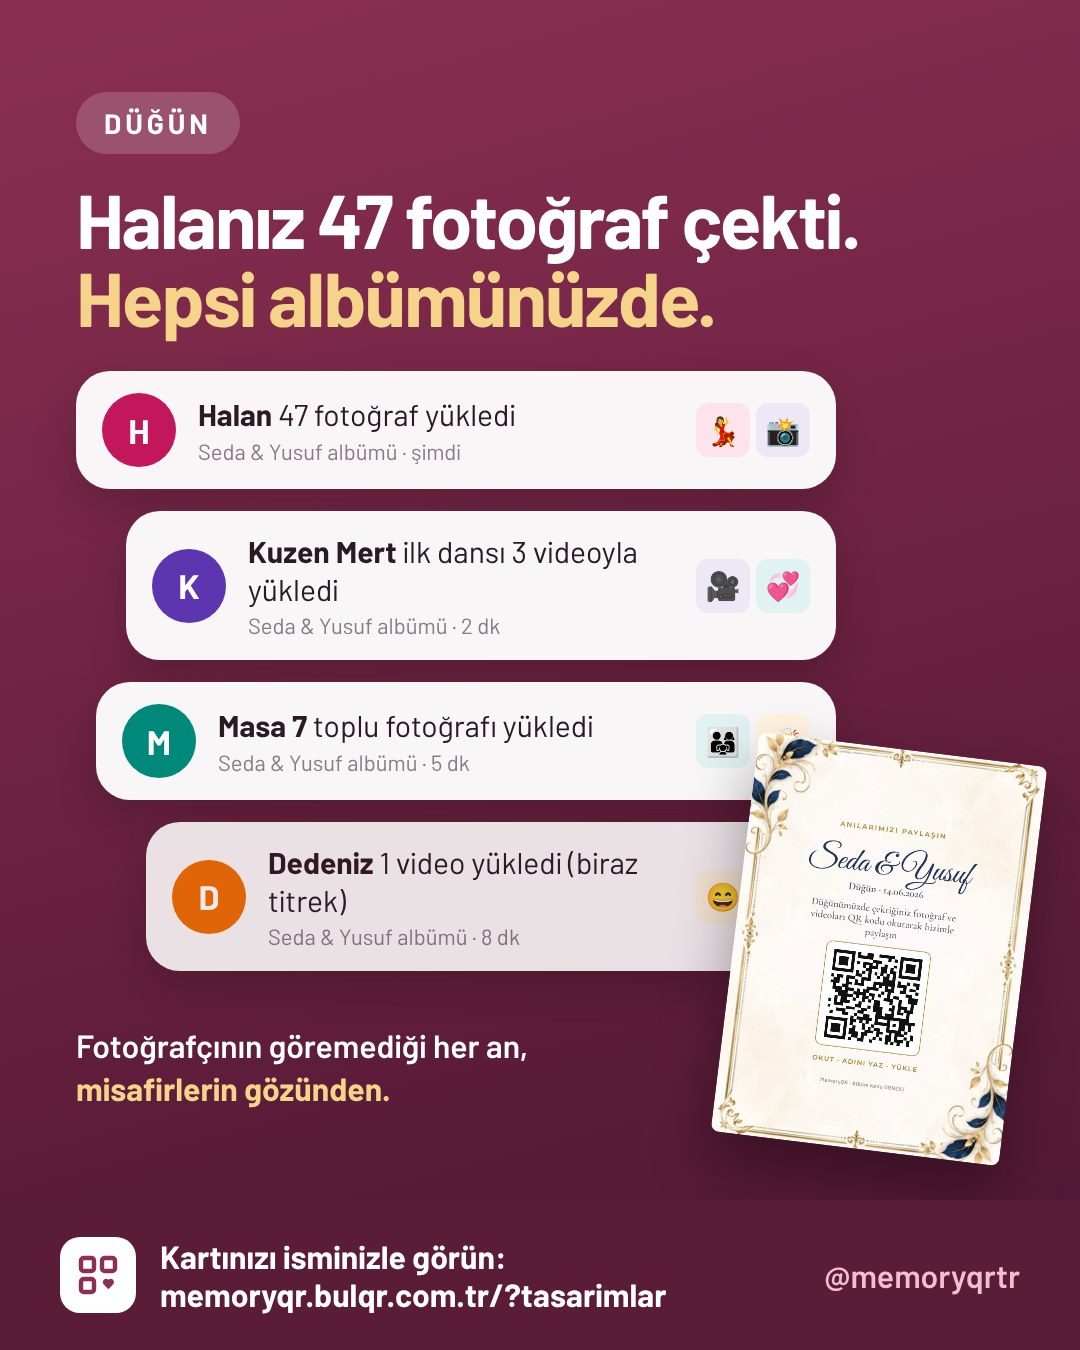
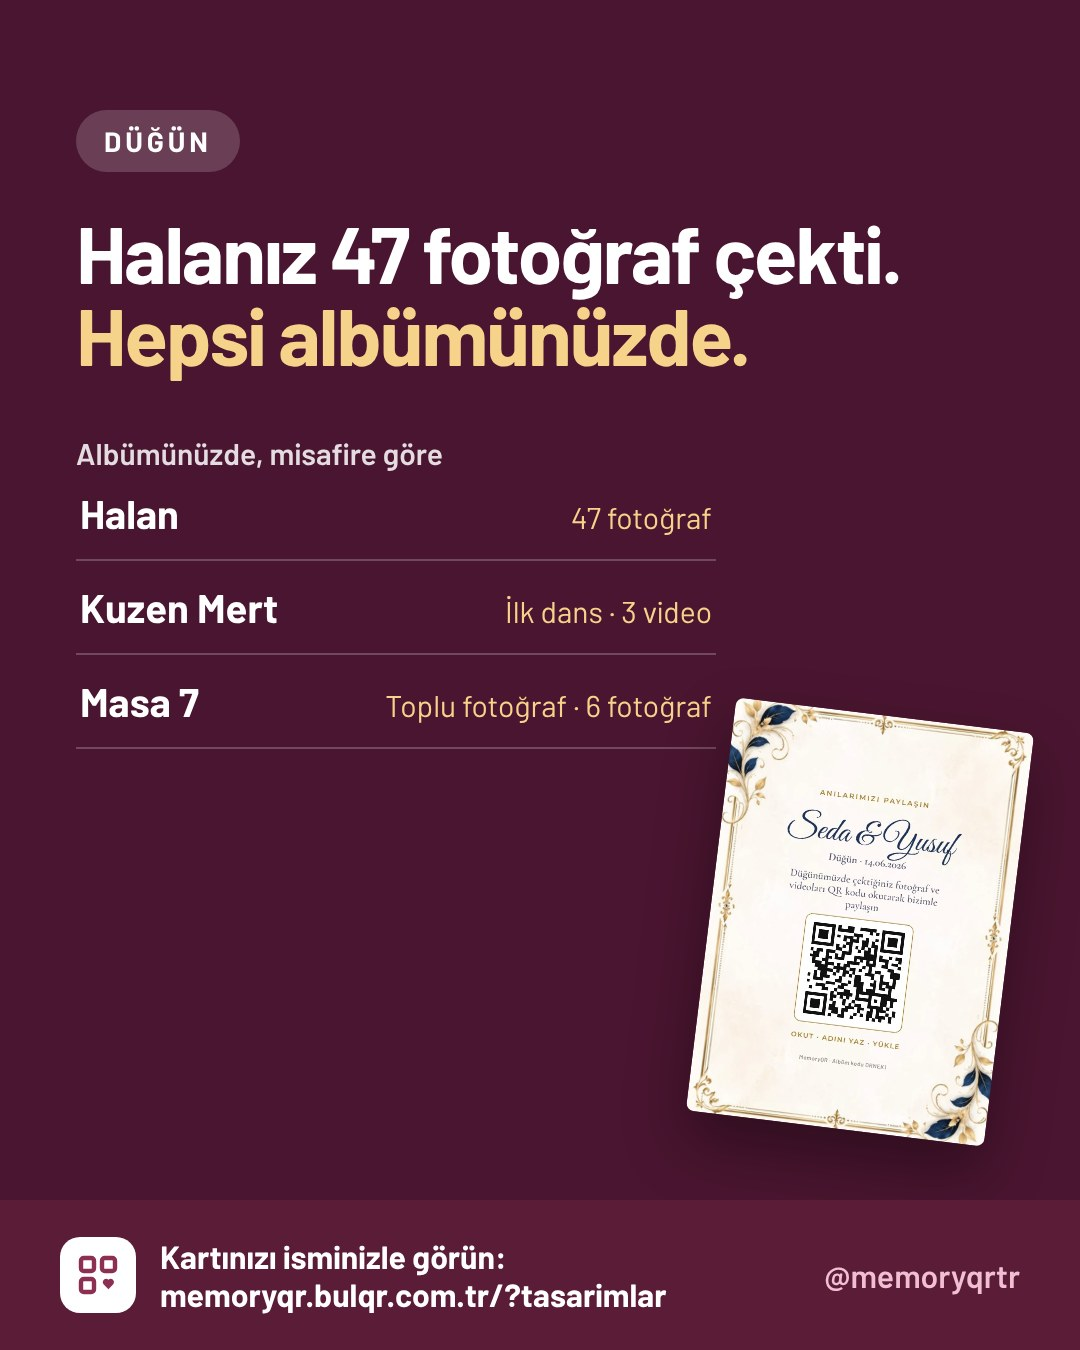
Etkinlik serisi sadeleşti: bildirim yerine albümde misafire göre liste, tek renk zemin
Claude-Session: https://claude.ai/code/session_013LggcHU5H3775AuoLzGk1M

diff --git a/pazarlama/ig/ekstra.js b/pazarlama/ig/ekstra.js
@@ -208,41 +208,41 @@ const IG_EKSTRA = [
   ...[
     {ad: "Düğün", kind: "dugun", isim: "Seda & Yusuf", tasarim: "lacivert_barok", renk: "#4a1530", renk2: "#8c2f52", tag: "#düğünfotoğrafları",
       b: ["Halanız 47 fotoğraf çekti.", "Hepsi albümünüzde."], albumAd: "Seda & Yusuf albümü",
-      bildirim: [["Halan", "47 fotoğraf yükledi", ["💃", "📸"], "şimdi"], ["Kuzen Mert", "ilk dansı 3 videoyla yükledi", ["🎥", "💞"], "2 dk"], ["Masa 7", "toplu fotoğrafı yükledi", ["👨👩👧", "🥂"], "5 dk"], ["Dedeniz", "1 video yükledi (biraz titrek)", ["😄", "🎥"], "8 dk"]],
+      bildirim: [["Halan", "47 fotoğraf", ["💃", "📸"]], ["Kuzen Mert", "İlk dans · 3 video", ["🎥", "💞"]], ["Masa 7", "Toplu fotoğraf · 6 fotoğraf", ["👨👩👧", "🥂"]], ["Dedeniz", "1 video (biraz titrek)", ["😄", "🎥"]]],
       alt: "Fotoğrafçının göremediği her an, **misafirlerin gözünden.**",
       cap: "Düğünün en güzel kareleri genelde misafirlerin telefonunda kalır 📸\n\nMemoryQR'da masadaki QR'ı okutan herkes çektiğini doğrudan albümünüze yükler. Halanızın 47 fotoğrafı da, dedenizin titrek videosu da 😄\n\n💌 Paketler 499 TL'den. 👉 Tasarımınızı seçin: link profilde"},
     {ad: "Kına gecesi", kind: "kina", isim: "Seda'nın Kına Gecesi", tasarim: "bordo_gul", renk: "#5a0e18", renk2: "#a3263a", tag: "#kınaorganizasyonu",
       b: ["Halay videosu kimdeydi?", "Artık albümünüzde."], albumAd: "Kına gecesi albümü",
-      bildirim: [["Teyzen", "halay videosunu yükledi", ["💃", "🎶"], "şimdi"], ["Elif", "kına yakılırken 12 fotoğraf yükledi", ["🔴", "📸"], "3 dk"], ["Annen", "'Yüksek yüksek tepelere' videosunu yükledi", ["🎤", "🥹"], "6 dk"], ["Zeynep", "bindallı fotoğraflarını yükledi", ["👑", "✨"], "9 dk"]],
+      bildirim: [["Teyzen", "Halay · 4 video", ["💃", "🎶"]], ["Elif", "Kına yakılırken · 12 fotoğraf", ["🔴", "📸"]], ["Annen", "'Yüksek yüksek tepelere' · 1 video", ["🎤", "🥹"]], ["Zeynep", "Bindallı · 9 fotoğraf", ["👑", "✨"]]],
       alt: "Türküler, halaylar, gözyaşları: **kına bir kere yaşanır.**",
       cap: "Kına gecesinin en güzel videoları hep birilerinin telefonunda kalır 💃\n\nMemoryQR ile masadaki QR'ı okutan herkes çektiğini doğrudan albümünüze yükler. Kına + düğün için 2 albümlü Aile paketimiz de var.\n\n👉 Tasarımınızı seçin: link profilde"},
     {ad: "Nişan", kind: "nisan", isim: "Seda & Yusuf", tasarim: "pudra_yuzuk", renk: "#5e3a48", renk2: "#a06a7c", tag: "#nişanhazırlığı",
       b: ["Yüzük anı,", "6 farklı açıdan."], albumAd: "Nişan albümü",
-      bildirim: [["Kayınvalide", "yüzük anını yükledi", ["💍", "📸"], "şimdi"], ["Abin", "aynı anı başka açıdan yükledi", ["💍", "🎥"], "1 dk"], ["Nişan masası", "8 fotoğraf yükledi", ["🌸", "🥂"], "4 dk"], ["Kuzen Ayşe", "aile fotoğrafını yükledi", ["👨👩👧👦", "✨"], "7 dk"]],
+      bildirim: [["Kayınvalide", "Yüzük anı · 1 video", ["💍", "📸"]], ["Abin", "Yüzük anı, başka açıdan", ["💍", "🎥"]], ["Nişan masası", "8 fotoğraf", ["🌸", "🥂"]], ["Kuzen Ayşe", "Aile fotoğrafı", ["👨👩👧👦", "✨"]]],
       alt: "İki ailenin ilk ortak fotoğrafları **tek albümde.**",
       cap: "Yüzükler takılırken herkes telefonunu kaldırır 💍 O kareleri tek tek istemenize gerek yok.\n\nMemoryQR'da QR'ı okutan her misafir çektiğini doğrudan albümünüze yükler.\n\n👉 Tasarımınızı seçin: link profilde"},
     {ad: "Doğum günü", kind: "dogum_gunu", isim: "Seda'nın Doğum Günü", tasarim: "unicorn", renk: "#3d2470", renk2: "#7a52c2", tag: "#doğumgünüpartisi",
       b: ["Mumlar üflenirken", "14 telefon çekti."], albumAd: "Doğum günü albümü",
-      bildirim: [["Defne'nin annesi", "mum anını yükledi", ["🎂", "🎥"], "şimdi"], ["Can'ın babası", "oyun alanından 9 fotoğraf yükledi", ["🎈", "📸"], "3 dk"], ["Babaanne", "hediye açılışını yükledi", ["🎁", "🥹"], "5 dk"], ["Animatör", "grup fotoğrafını yükledi", ["🦄", "✨"], "8 dk"]],
+      bildirim: [["Defne'nin annesi", "Mum üfleme · 1 video", ["🎂", "🎥"]], ["Can'ın babası", "Oyun alanı · 9 fotoğraf", ["🎈", "📸"]], ["Babaanne", "Hediye açılışı · 2 video", ["🎁", "🥹"]], ["Animatör", "Grup fotoğrafı", ["🦄", "✨"]]],
       alt: "Velilerin çektiği her kare, **parti bitmeden albümde.**",
       cap: "Parti biter, fotoğraflar 14 farklı velinin telefonunda kalır 🎈\n\nMemoryQR ile pastanın yanındaki QR'ı okutan herkes çektiğini albüme yükler. Çocuğunuzun ismiyle hazır kartlar.\n\n👉 Tasarımınızı seçin: link profilde"},
     {ad: "Mezuniyet", kind: "mezuniyet", isim: "Hukuk Fakültesi Mezuniyet Balosu", tasarim: "mezun_lacivert", renk: "#0d1d42", renk2: "#2a4a8c", tag: "#mezuniyetbalosu",
       b: ["Kep atma anı,", "bütün sınıfın gözünden."], albumAd: "Mezuniyet albümü",
-      bildirim: [["Melis", "kep atma videosunu yükledi", ["🎓", "🎥"], "şimdi"], ["Sınıf başkanı", "toplu fotoğrafı yükledi", ["👩🎓", "📸"], "2 dk"], ["Burak", "balodan 22 fotoğraf yükledi", ["🕺", "✨"], "6 dk"], ["Hocamız", "konuşmasını yükledi", ["🎤", "👏"], "9 dk"]],
+      bildirim: [["Melis", "Kep atma · 1 video", ["🎓", "🎥"]], ["Sınıf başkanı", "Toplu fotoğraf", ["👩🎓", "📸"]], ["Burak", "Balo · 22 fotoğraf", ["🕺", "✨"]], ["Hocamız", "Konuşma · 1 video", ["🎤", "👏"]]],
       alt: "Sınıf grubuna kimse atmaz. **Albüme herkes yükler.**",
       cap: "Balo gecesi herkes çeker, kimse paylaşmaz 🎓\n\nMemoryQR ile masalardaki QR'ı okutan her mezun çektiğini sınıfın ortak albümüne yükler. Sınıf temsilcileri, bize yazın.\n\n👉 Tasarımlar: link profilde"},
     {ad: "Sünnet", kind: "sunnet", isim: "Uras'ın Sünnet Düğünü", tasarim: "sunnet_prens", renk: "#0e1c40", renk2: "#2b4a86", tag: "#sünnetdüğünü",
       b: ["Dedesinin çektiği", "en güzel video da albümde."], albumAd: "Sünnet düğünü albümü",
-      bildirim: [["Dede", "1 video yükledi (biraz bulanık)", ["👑", "🥹"], "şimdi"], ["Amcan", "ata binme anını yükledi", ["🐎", "🎥"], "2 dk"], ["Teyzen", "takı merasiminden 15 fotoğraf yükledi", ["✨", "📸"], "5 dk"], ["Kuzen Efe", "dans videosunu yükledi", ["💃", "🎶"], "8 dk"]],
+      bildirim: [["Dede", "1 video (biraz bulanık)", ["👑", "🥹"]], ["Amcan", "Ata binme · 2 video", ["🐎", "🎥"]], ["Teyzen", "Takı merasimi · 15 fotoğraf", ["✨", "📸"]], ["Kuzen Efe", "Dans · 1 video", ["💃", "🎶"]]],
       alt: "Küçük prensin büyük günü, **herkesin gözünden.**",
       cap: "Sünnet düğününde en kıymetli kareler, dedenin titrek ellerle çektiği videolardır 🤍\n\nMemoryQR ile masadaki QR'ı okutan herkes çektiğini albümünüze yükler. Uygulama yok, orijinal kalite.\n\n👉 Tasarımınızı seçin: link profilde"},
     {ad: "Baby shower", kind: "baby_shower", isim: "Seda'nın Baby Shower'ı", tasarim: "bebek_pembe", renk: "#8a3458", renk2: "#d07a9a", vurgu: "#fff1b8", tag: "#babyshower",
       b: ["Kız mı, erkek mi?", "O an herkesin gözünden."], albumAd: "Baby shower albümü",
-      bildirim: [["Annen", "açıklama anını yükledi", ["🎈", "🥹"], "şimdi"], ["Kardeşin", "aynı anı yavaş çekimle yükledi", ["🎀", "🎥"], "1 dk"], ["İş arkadaşların", "9 fotoğraf yükledi", ["🧸", "📸"], "4 dk"], ["Eşin", "ilk tepkini yükledi", ["💞", "😂"], "6 dk"]],
+      bildirim: [["Annen", "Açıklama anı · 1 video", ["🎈", "🥹"]], ["Kardeşin", "Aynı an, yavaş çekim", ["🎀", "🎥"]], ["İş arkadaşların", "9 fotoğraf", ["🧸", "📸"]], ["Eşin", "İlk tepkin · 1 video", ["💞", "😂"]]],
       alt: "Bebeğinize ilk albümü **misafirleriniz hazırlasın.**",
       cap: "Kız mı erkek mi açıklandığı an, salondaki herkes kaydediyordu 🎈\n\nMemoryQR ile QR'ı okutan herkes çektiğini doğrudan albümünüze yükler. Bebeğinize ilk albüm hediyesi 🤍\n\n👉 Tasarımınızı seçin: link profilde"},
   ].map(e => ({t: "gonderi", h: `Etkinlik serisi: ${e.ad}`,
-    ne: "Seriden bir gönderi. Haftaya yayarak paylaş; her birinin kendi esprisi var, profilde renkli bir dizi oluşur.",
+    ne: "Seriden bir gönderi. Görseldeki liste albüm panelindeki 'misafire göre' görünümünü canlandırır. Haftaya yayarak paylaş.",
     cap: e.cap, tags: [e.tag, "#qrkod", "#anıalbümü", "#misafirfotoğrafları"],
     slides: [{tpl: "m-bil", etiket: e.ad, ...e}]})),
 ];

diff --git a/pazarlama/ig/sablon.html b/pazarlama/ig/sablon.html
@@ -185,14 +185,17 @@ body{margin:0;background:#888;font-family:var(--body)}
 .m.bil{background:linear-gradient(165deg,var(--tz2) 0%,var(--tz) 100%)}
 .m.bil .tag{background:rgba(255,255,255,.18);color:#fff}
 .m.bil .mh{color:#fff;font-size:76px}.m.bil .mh em{color:var(--ta)}
-.m.bil .nots{position:relative;display:grid;gap:22px;width:760px;margin-top:10px}
-.m.bil .nt{display:flex;align-items:center;gap:22px;background:rgba(255,255,255,.96);border-radius:34px;padding:22px 26px;box-shadow:0 18px 40px rgba(0,0,0,.18)}
-.m.bil .nt:nth-child(2){margin-left:50px}.m.bil .nt:nth-child(3){margin-left:20px}.m.bil .nt:nth-child(4){margin-left:70px;opacity:.9}
+.m.bil .nots{position:relative;display:grid;gap:0;width:640px;margin-top:20px}
+.m.bil .nt{display:flex;align-items:baseline;justify-content:space-between;gap:20px;border-bottom:2px solid rgba(255,255,255,.22);padding:22px 4px}
+.m.bil .nth{font:600 28px var(--body);color:rgba(255,255,255,.85);margin-bottom:-4px}.m.bil .nth b{color:#fff}
+.m.bil .nt small{font:500 32px var(--body);color:var(--ta);margin:0;text-align:right}
 .m.bil .av{width:74px;height:74px;border-radius:50%;display:grid;place-items:center;font:700 34px var(--body);color:#fff;flex:none}
-.m.bil .nt p{margin:0;flex:1;font:500 30px/1.25 var(--body);color:#2a1a22}.m.bil .nt p b{font-weight:700}
+.m.bil .nt p{margin:0;font:700 40px var(--body);color:#fff}
 .m.bil .nt small{display:block;font:500 22px var(--body);color:#8a7a82;margin-top:4px}
 .m.bil .th3{display:flex;gap:6px}.m.bil .th3 i{width:54px;height:54px;border-radius:12px;display:grid;place-items:center;font-style:normal;font-size:28px}
-.m.bil .kcard{position:absolute;right:56px;bottom:200px;width:290px;transform:rotate(7deg);border-radius:8px;box-shadow:0 30px 60px rgba(0,0,0,.35)}
+.m.bil .kcard{position:absolute;right:70px;bottom:220px;width:300px;transform:rotate(7deg);border-radius:8px;box-shadow:0 30px 60px rgba(0,0,0,.35)}
+.m.bil .nt small{font:500 30px var(--body)!important;color:var(--ta)!important;margin:0!important;text-align:right}
+.m.bil .nth{font-size:30px!important}
 .m.bil .alt2{position:absolute;left:76px;bottom:208px;width:560px;font:600 32px/1.35 var(--body);color:#fff}
 .m.bil .alt2 b{color:var(--ta)}
 </style>
@@ -298,16 +301,13 @@ async function renderM(el, s, d) {
       <div class="pkimg" style="background-image:url(${img})"></div>
       <ul class="pkl">${s.maddeler.map(x => `<li><span>${md(x)}</span></li>`).join("")}</ul></div>${band(s)}`;
   } else if (t === "m-bil") {
-    el.classList.add("bil"); el.style.setProperty("--tz", s.renk); el.style.setProperty("--tz2", s.renk2 || s.renk); el.style.setProperty("--ta", s.vurgu || "#f6d38a");
+    // sade: tek renk zemin, başlık, albümde misafire göre 3 satır, köşede gerçek kart
+    el.classList.add("bil"); el.style.setProperty("--tz", s.renk); el.style.setProperty("--tz2", s.renk); el.style.setProperty("--ta", s.vurgu || "#f6d38a");
     await loadScript("kart.js"); await designReady(s.tasarim);
     const kart = drawCard({code: "ORNEK1", title: s.isim, kind: s.kind, event_date: "2026-06-14"}, s.tasarim, "", 5).toDataURL("image/jpeg", .9);
-    const COL = ["#c2185b", "#5e35b1", "#00897b", "#ef6c00", "#3949ab", "#6d4c41"];
-    const TINT = ["#fde4ec", "#ede7f6", "#e0f2f1", "#fff3e0", "#e8eaf6", "#efebe9"];
-    el.innerHTML = `${circles(1)}<div class="mpad" style="gap:26px"><div class="tag">${esc(s.etiket)}</div>${head({...s, hs: s.hs || 76})}
-      <div class="nots">${s.bildirim.map(([ad, ne, em, zaman], i) => `<div class="nt"><div class="av" style="background:${COL[i % 6]}">${esc(ad.slice(0, 1))}</div>
-        <p><b>${esc(ad)}</b> ${esc(ne)}<small>${esc(s.albumAd)} · ${esc(zaman)}</small></p>
-        <div class="th3">${[0, 1].map(j => `<i style="background:${TINT[(i + j) % 6]}">${em[j] || em[0]}</i>`).join("")}</div></div>`).join("")}</div></div>
-      <p class="alt2">${md(s.alt)}</p><img class="kcard" src="${kart}">${band({bant: "Kartınızı isminizle görün: | memoryqr.bulqr.com.tr/?tasarimlar"})}`;
+    el.innerHTML = `<div class="mpad" style="gap:40px;padding-top:110px"><div class="tag">${esc(s.etiket)}</div>${head({...s, hs: s.hs || 80})}
+      <div class="nots"><div class="nth">Albümünüzde, misafire göre</div>${s.bildirim.slice(0, 3).map(([ad, ne]) => `<div class="nt"><p><b>${esc(ad)}</b></p><small>${esc(ne)}</small></div>`).join("")}</div></div>
+      <img class="kcard" src="${kart}">${band({bant: "Kartınızı isminizle görün: | memoryqr.bulqr.com.tr/?tasarimlar"})}`;
   } else if (t === "m-tur") {
     el.classList.add("tur"); el.style.setProperty("--tz", s.renk); el.style.setProperty("--ta", s.vurgu || "#f6d38a");
     await loadScript("kart.js");
